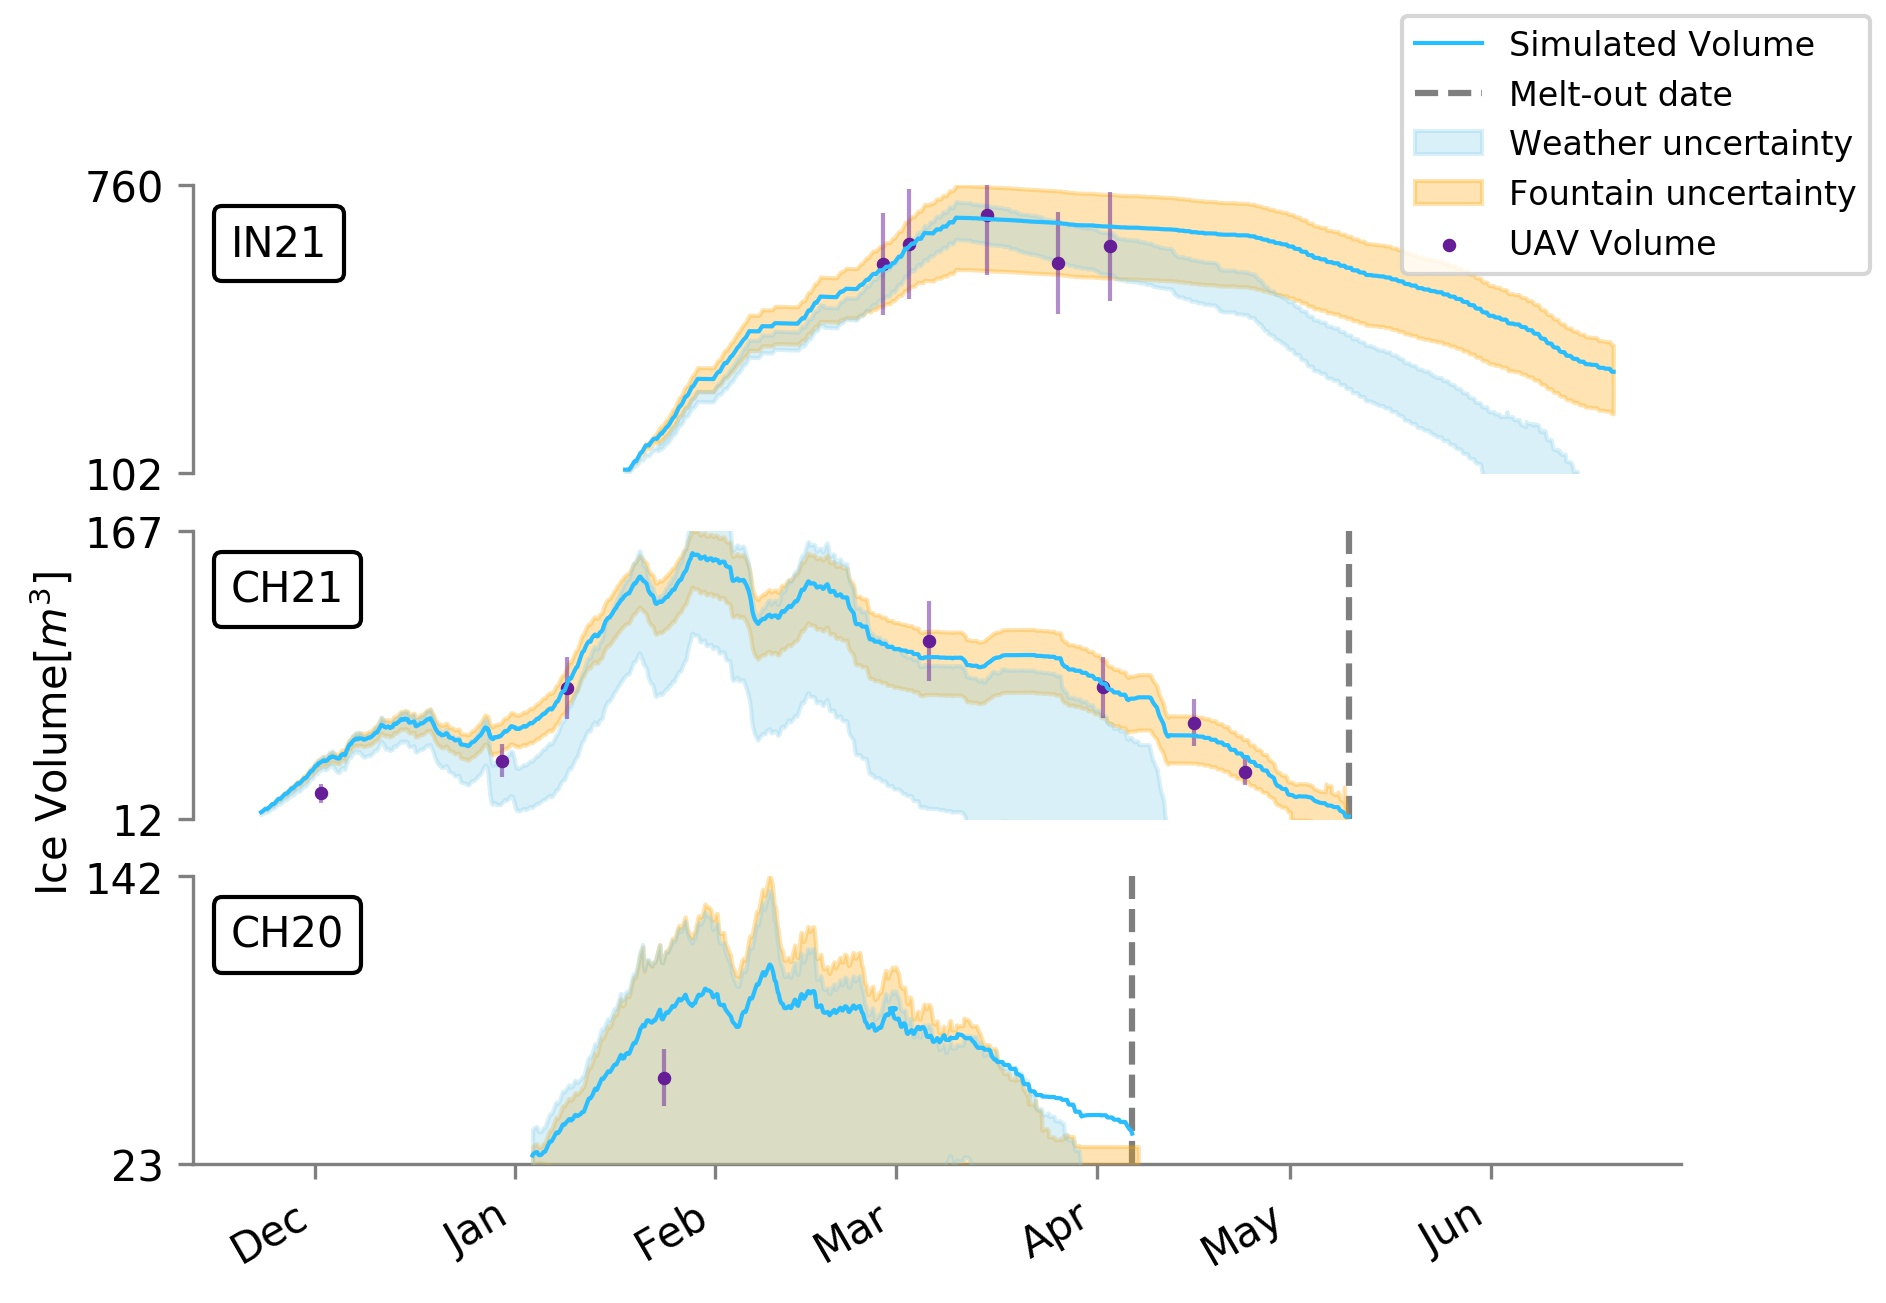
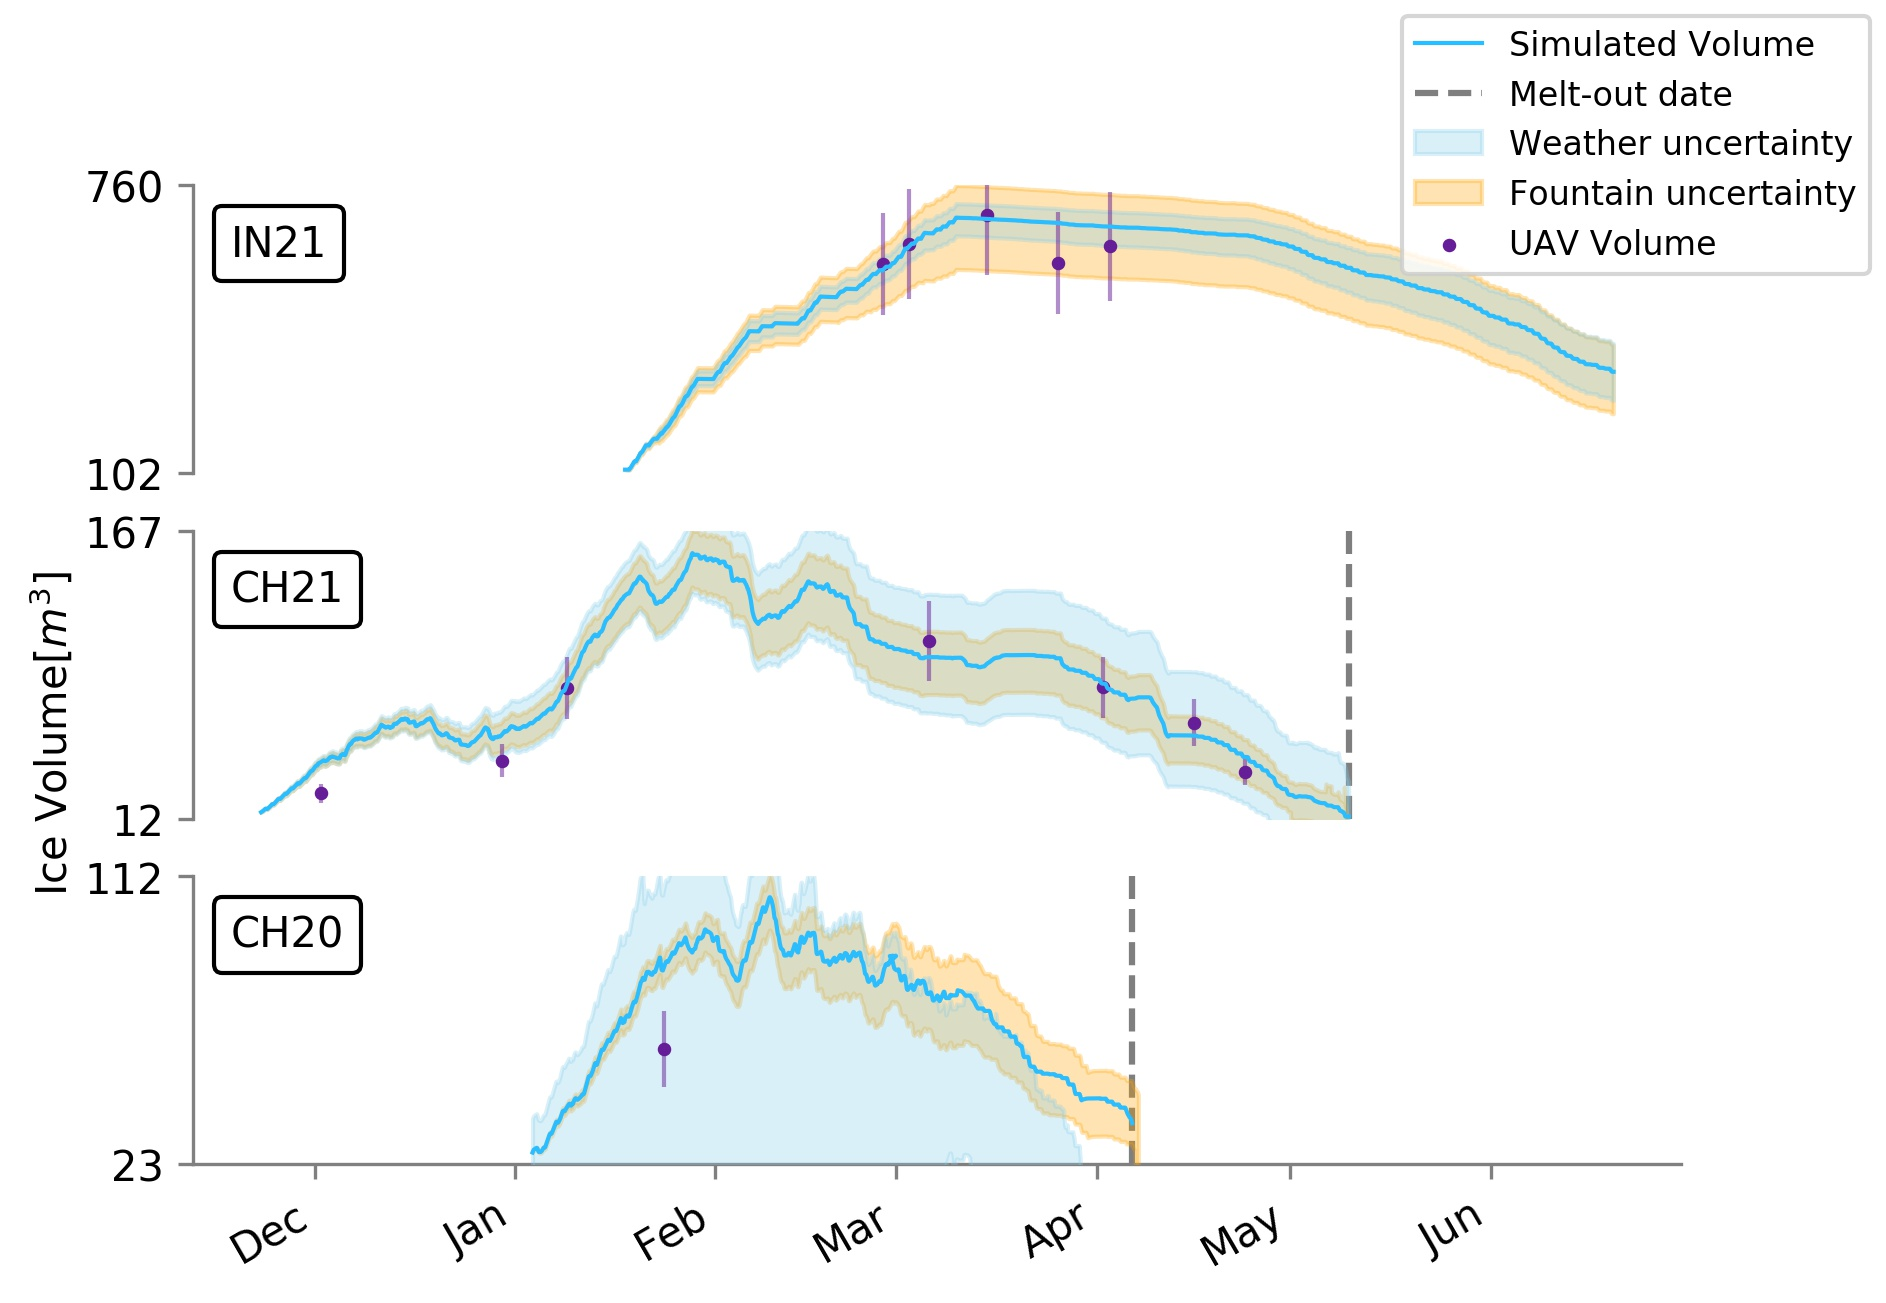
Results fig update

diff --git a/src/plots/uq_plot_full.py b/src/plots/uq_plot_full.py
@@ -62,7 +62,9 @@ if __name__ == "__main__":
         evaluations = []
 
         data = un.Data()
-        filename1 = FOLDER["sim"] + "full.h5"
+        filename1 = FOLDER["sim"] + "weather.h5"
+        if location == 'guttannen20':
+            filename1 = FOLDER["sim"] + "full.h5"
         filename2 = FOLDER["sim"] + "fountain.h5"
 
         if location == "schwarzsee19":

diff --git a/src/plots/param_sens.py b/src/plots/param_sens.py
@@ -58,7 +58,7 @@ if __name__ == "__main__":
     ax[1].set_ylabel("Normalized RMSE")
 
     plt.savefig(
-        "data/paper1/sens.jpg",
+        "data/paper1/Figure_5.jpg",
         dpi=300,
         bbox_inches="tight",
     )
